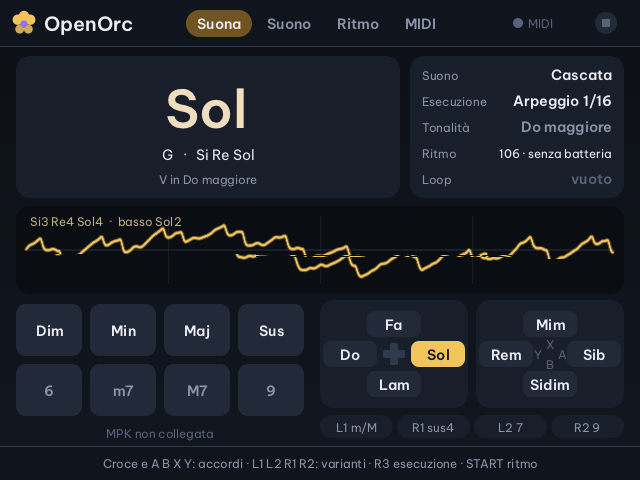
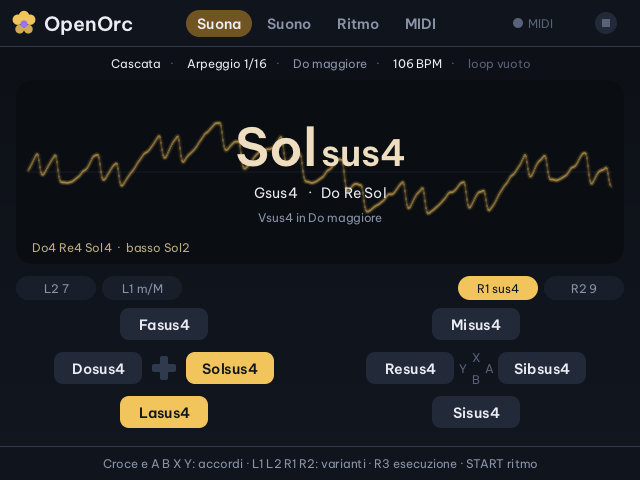
OpenOrc: the Play page redone around the chord
One subject instead of five panels of equal weight: the chord name large
in the middle with its notes and degree, the oscilloscope as a faint
backdrop behind it (the Orchid's "React" view), a single status line under
the header (sound, playing style, key, tempo, loop) instead of the table,
and the Flip's buttons drawn big in their real positions (d-pad left, ABXY
right, shoulders at the corners). The MPK pad grid only shows while the
keyboard is connected. Gold marks only what is playing; the other pages
are unchanged. New test screenshot without the MPK.

Claude-Session: https://claude.ai/code/session_01CRgcg7BaSS7Ne9tsAuYf2B

diff --git a/App/OpenOrc/src/orc_app.c b/App/OpenOrc/src/orc_app.c
@@ -1661,16 +1661,16 @@ static float scope_peak(OrcApp *a, int n)
 /* Oscilloscopio dell'uscita, agganciato al passaggio per lo zero in salita. Il colore dice chi suona:
    oro l'accordo dal vivo, viola la melodia, verde acqua il loop. In alto le note dell'accordo con
    l'ottava, cioe' il voicing scelto da K1. */
-static void draw_scope(OrcApp *a, Canvas *c, int x, int y, int w, int h)
+/* Oscilloscopio come fondale della fascia dell'accordo, agganciato al passaggio per lo zero in salita:
+   un tratto tenue dietro al nome, oro per l'accordo dal vivo, viola per la melodia, verde acqua per il
+   loop. Restituisce il picco, per scrivere «silenzio» quando non suona nulla. */
+static float draw_scope_band(OrcApp *a, Canvas *c, int x, int y, int w, int h)
 {
-    gfx_round_rect(c, x, y, w, h, 14, RGB(10, 13, 18), 1.0f);
-    for (int i = 1; i < 4; i++) gfx_rect(c, x + w * i / 4, y + 10, 1, h - 20, RGB(22, 27, 37));
-    gfx_line(c, x + 10, y + h / 2.0f, x + w - 10, y + h / 2.0f, 1.0f, C_LINE, 0.8f);
     OrcLoopInfo li;
     orc_loop_info(a->orc, &li);
     uint32_t color = a->chord_live ? C_GOLD : melody_on(a) ? C_VIOLET :
-                     (li.state == LOOP_PLAYING || li.state == LOOP_OVERDUB) ? C_TEAL : C_MUTED;
-    int n = w - 20;
+                     (li.state == LOOP_PLAYING || li.state == LOOP_OVERDUB) ? C_TEAL : C_DIM;
+    int n = w - 24;
     if (n > 600) n = 600;
     orc_scope(a->orc, a->scope, n * 2);
     int start = 0;
@@ -1678,18 +1678,131 @@ static void draw_scope(OrcApp *a, Canvas *c, int x, int y, int w, int h)
         if (a->scope[i - 1] <= 0.0f && a->scope[i] > 0.0f) { start = i; break; }
     float peak = 0.0f;
     for (int i = 0; i < n; i++) peak = fmaxf(peak, fabsf(a->scope[start + i]));
-    float gain = (h * 0.40f) / fmaxf(peak, 0.25f), px = 0, py = 0;
+    float mid = y + h * 0.5f, gain = (h * 0.36f) / fmaxf(peak, 0.25f), px = 0, py = 0;
+    gfx_line(c, x + 12, mid, x + w - 12, mid, 1.0f, C_LINE, 0.35f);
     for (int i = 0; i < n; i++) {
-        float xx = x + 10 + i, yy = y + h / 2.0f - a->scope[start + i] * gain;
+        float xx = x + 12 + i, yy = mid - a->scope[start + i] * gain;
         if (i) {
-            gfx_line(c, px, py, xx, yy, 4.0f, color, 0.18f);
-            gfx_line(c, px, py, xx, yy, 1.6f, color, 1.0f);
+            gfx_line(c, px, py, xx, yy, 5.0f, color, 0.06f);
+            gfx_line(c, px, py, xx, yy, 1.8f, color, 0.24f);
         }
         px = xx;
         py = yy;
     }
+    return peak;
+}
+
+/* La riga di stato sotto l'intestazione: suono, esecuzione, tonalita', tempo e loop in una sola riga. */
+static void draw_status_line(OrcApp *a, Canvas *c, int y)
+{
+    char vals[5][48];
+    uint32_t cols[5] = { C_TEXT, C_TEXT, C_TEXT, C_TEXT, C_TEXT };
+    snprintf(vals[0], sizeof(vals[0]), "%s", PRESETS[a->set.sound].name);
+    if (a->set.snd.perform == PERF_ARP) snprintf(vals[1], sizeof(vals[1]), "Arpeggio %s", ARP_SHORT[(int)(clamp01(a->set.snd.perform_amount) * 4.99f)]);
+    else snprintf(vals[1], sizeof(vals[1]), "%s", PERFORM_NAMES[a->set.snd.perform]);
+    key_name(vals[2], sizeof(vals[2]), a->set.key, a->set.minor);
+    cols[2] = a->set.keymode ? C_GOLD : C_MUTED;
+    if (a->set.beat_on) snprintf(vals[3], sizeof(vals[3]), "%d BPM · %s", (int)lrintf(a->set.bpm), BEAT_NAMES[a->set.beat_style]);
+    else snprintf(vals[3], sizeof(vals[3]), "%d BPM", (int)lrintf(a->set.bpm));
+    OrcLoopInfo li;
+    orc_loop_info(a->orc, &li);
+    char st[48];
+    loop_state_text(&li, st, sizeof(st));
+    snprintf(vals[4], sizeof(vals[4]), "loop %s", st);
+    cols[4] = li.state == LOOP_RECORDING ? C_RED : (li.state == LOOP_EMPTY ? C_DIM : C_TEXT);
+    int total = 0;
+    for (int i = 0; i < 5; i++) total += gfx_text_width(FONT_SMALL, vals[i]) + (i < 4 ? 26 : 0);
+    int x = 320 - total / 2;
+    for (int i = 0; i < 5; i++) {
+        x += gfx_text(c, FONT_SMALL, x, y, vals[i], cols[i]);
+        if (i < 4) { gfx_text(c, FONT_SMALL, x + 9, y, "·", C_DIM); x += 26; }
+    }
+}
+
+/* Un tasto della Flip con il nome dell'accordo che suonerebbe adesso (con i dorsali tenuti). */
+static void draw_flip_chip(OrcApp *a, Canvas *c, int slot, float cx, float cy, float w, float h, int font)
+{
+    int root, iv[CHORD_MAX_IV], deg, sp;
+    int n = build_chord(a, SRC_FLIP(slot), &root, iv, &deg, &sp);
+    char name[24];
+    chord_name(name, sizeof(name), root, chord_mask(iv, n), sp);
+    int held = stack_find(a, SRC_FLIP(slot)) >= 0;
+    gfx_round_rect(c, cx - w / 2, cy - h / 2, w, h, 9, held ? C_GOLD : C_PANEL_HI, 1.0f);
+    if (gfx_text_width(font, name) > w - 10) font = FONT_SMALL;
+    gfx_text_center(c, font, (int)cx, (int)(cy + (font == FONT_SMALL ? 5 : 6)), name, held ? C_BAR : C_TEXT);
+}
+
+/* Croce (d = 0) o A B X Y (d = 1), disposti come sulla console; al centro il simbolo del gruppo. */
+static void draw_flip_cluster(OrcApp *a, Canvas *c, int d, float cx, float cy, float w, float h, float dx, float dy, int font)
+{
+    static const int SLOT_AT[2][4] = { { 0, 1, 2, 3 }, { 4, 5, 7, 6 } };    /* sinistra, su, destra, giu' */
+    const float off[4][2] = { { -dx, 0 }, { 0, -dy }, { dx, 0 }, { 0, dy } };
+    if (d == 0) {
+        gfx_round_rect(c, cx - 4, cy - 12, 8, 24, 2, C_LINE, 1.0f);
+        gfx_round_rect(c, cx - 12, cy - 4, 24, 8, 2, C_LINE, 1.0f);
+    } else {
+        static const char *L[4] = { "Y", "X", "A", "B" };
+        static const float at[4][2] = { { -13, 5 }, { 0, -6 }, { 13, 5 }, { 0, 16 } };
+        for (int k = 0; k < 4; k++) gfx_text_center(c, FONT_SMALL, (int)(cx + at[k][0]), (int)(cy + at[k][1]), L[k], C_DIM);
+    }
+    for (int k = 0; k < 4; k++) draw_flip_chip(a, c, SLOT_AT[d][k], cx + off[k][0], cy + off[k][1], w, h, font);
+}
+
+static void draw_mod_chip(OrcApp *a, Canvas *c, int m, const char *label, float x, float y, float w)
+{
+    gfx_round_rect(c, x, y, w, 24, 12, a->mods[m] ? C_GOLD : C_PANEL, 1.0f);
+    gfx_text_center(c, FONT_SMALL, (int)(x + w / 2), (int)(y + 17), label, a->mods[m] ? C_BAR : C_MUTED);
+}
+
+/* Pagina Suona: una riga di stato, la fascia dell'accordo con l'oscilloscopio come fondale, e sotto i
+   comandi: i pad della MPK solo quando la tastiera c'e', i tasti della Flip disposti come sulla console. */
+static void draw_play(OrcApp *a, Canvas *c)
+{
+    char t[96];
+    draw_status_line(a, c, 68);
+
+    /* fascia dell'accordo */
+    const int bx = 16, by = 80, bw = 608, bh = 184;
+    gfx_round_rect(c, bx, by, bw, bh, 16, RGB(10, 13, 18), 1.0f);
+    float peak = draw_scope_band(a, c, bx, by, bw, bh);
+    if (a->name_root[0]) {
+        uint32_t col = a->chord_live ? gfx_mix(C_TEXT, C_GOLD, 0.35f + 0.65f * a->glow) : C_MUTED;
+        int wr = gfx_text_width(FONT_HUGE, a->name_root), ws = gfx_text_width(FONT_BIG, a->name_suffix);
+        int x = 320 - (wr + ws + 4) / 2;
+        gfx_text(c, FONT_HUGE, x, by + 86, a->name_root, col);
+        gfx_text(c, FONT_BIG, x + wr + 4, by + 86, a->name_suffix, col);
+        char notes[64] = "";
+        for (int i = 0; i < a->notes_n && i < 6; i++) {
+            int pc = a->notes[i] % 12, dup = 0;
+            for (int j = 0; j < i; j++) dup |= a->notes[j] % 12 == pc;
+            if (dup) continue;
+            size_t l = strlen(notes);
+            snprintf(notes + l, sizeof(notes) - l, "%s%s", l ? " " : "", note_it(pc, a->spelling));
+        }
+        snprintf(t, sizeof(t), "%s   ·   %s", a->symbol, notes);
+        gfx_text_center(c, FONT_BODY, 320, by + 118, t, a->chord_live ? C_TEXT : C_DIM);
+        if (a->numeral[0]) {
+            char k[32];
+            key_name(k, sizeof(k), a->set.key, a->set.minor);
+            snprintf(t, sizeof(t), "%s in %s", a->numeral, k);
+        } else {
+            char b[16];
+            note_label(b, sizeof(b), a->bass);
+            snprintf(t, sizeof(t), "basso %s", b);
+        }
+        gfx_text_center(c, FONT_SMALL, 320, by + 142, t, C_MUTED);
+    } else {
+        gfx_text_center(c, FONT_TITLE, 320, by + 86, "Suona un accordo", C_TEXT);
+        char k[32];
+        key_name(k, sizeof(k), a->set.key, a->set.minor);
+        if (a->midi_name[0]) snprintf(t, sizeof(t), "Tieni un pad (Maj, Min...) e premi un tasto, oppure croce e A B X Y: accordi di %s", k);
+        else snprintf(t, sizeof(t), "Croce e A B X Y suonano gli accordi di %s", k);
+        gfx_text_center(c, FONT_SMALL, 320, by + 118, t, C_MUTED);
+    }
+    /* le note con l'ottava: e' il voicing scelto da K1 */
     if (a->chord_live && a->notes_n) {
-        char t[96] = "", nn[16];
+        char nn[16];
+        t[0] = 0;
         for (int i = 0; i < a->notes_n && i < 7; i++) {
             note_label(nn, sizeof(nn), a->notes[i]);
             size_t l = strlen(t);
@@ -1700,120 +1813,36 @@ static void draw_scope(OrcApp *a, Canvas *c, int x, int y, int w, int h)
             size_t l = strlen(t);
             snprintf(t + l, sizeof(t) - l, "  ·  basso %s", nn);
         }
-        gfx_text(c, FONT_SMALL, x + 14, y + 20, t, gfx_mix(C_MUTED, C_GOLD, 0.5f));
+        gfx_text(c, FONT_SMALL, bx + 16, by + bh - 12, t, gfx_mix(C_MUTED, C_GOLD, 0.5f));
     }
-    if (peak < 0.002f) gfx_text_right(c, FONT_SMALL, x + w - 14, y + 20, "silenzio", C_DIM);
-}
+    if (peak < 0.002f) gfx_text_right(c, FONT_SMALL, bx + bw - 16, by + bh - 12, "silenzio", C_DIM);
 
-static void draw_play(OrcApp *a, Canvas *c)
-{
-    char t[96];
-    /* accordo */
-    gfx_round_rect(c, 16, 56, 384, 142, 14, C_PANEL, 1.0f);
-    if (a->name_root[0]) {
-        uint32_t col = a->chord_live ? gfx_mix(C_TEXT, C_GOLD, 0.35f + 0.65f * a->glow) : C_DIM;
-        int wr = gfx_text_width(FONT_HUGE, a->name_root), ws = gfx_text_width(FONT_BIG, a->name_suffix);
-        int x = 208 - (wr + ws + 4) / 2;
-        gfx_text(c, FONT_HUGE, x, 128, a->name_root, col);
-        gfx_text(c, FONT_BIG, x + wr + 4, 128, a->name_suffix, col);
-        char notes[64] = "";
-        for (int i = 0; i < a->notes_n && i < 6; i++) {
-            int pc = a->notes[i] % 12, dup = 0;
-            for (int j = 0; j < i; j++) dup |= a->notes[j] % 12 == pc;
-            if (dup) continue;
-            size_t l = strlen(notes);
-            snprintf(notes + l, sizeof(notes) - l, "%s%s", l ? " " : "", note_it(pc, a->spelling));
-        }
-        snprintf(t, sizeof(t), "%s   ·   %s", a->symbol, notes);
-        gfx_text_center(c, FONT_BODY, 208, 160, t, a->chord_live ? C_TEXT : C_DIM);
-        if (a->numeral[0]) {
-            char k[32];
-            key_name(k, sizeof(k), a->set.key, a->set.minor);
-            snprintf(t, sizeof(t), "%s in %s", a->numeral, k);
-        } else {
-            char b[16];
-            note_label(b, sizeof(b), a->bass);
-            snprintf(t, sizeof(t), "basso %s", b);
-        }
-        gfx_text_center(c, FONT_SMALL, 208, 184, t, C_MUTED);
-    } else {
-        gfx_text_center(c, FONT_TITLE, 208, 106, "Suona un accordo", C_TEXT);
-        gfx_text_center(c, FONT_SMALL, 208, 140, "MPK: tieni un pad (Maj, Min...) e premi un tasto", C_MUTED);
-        char k[32];
-        key_name(k, sizeof(k), a->set.key, a->set.minor);
-        snprintf(t, sizeof(t), "Flip: croce e A B X Y, accordi di %s", k);
-        gfx_text_center(c, FONT_SMALL, 208, 162, t, C_MUTED);
-    }
-
-    /* stato */
-    gfx_round_rect(c, 410, 56, 214, 142, 14, C_PANEL, 1.0f);
-    const char *labels[5] = { "Suono", "Esecuzione", "Tonalità", "Ritmo", "Loop" };
-    char vals[5][48];
-    snprintf(vals[0], sizeof(vals[0]), "%s", PRESETS[a->set.sound].name);
-    if (a->set.snd.perform == PERF_ARP) snprintf(vals[1], sizeof(vals[1]), "Arpeggio %s", ARP_SHORT[(int)(clamp01(a->set.snd.perform_amount) * 4.99f)]);
-    else snprintf(vals[1], sizeof(vals[1]), "%s", PERFORM_NAMES[a->set.snd.perform]);
-    key_name(vals[2], sizeof(vals[2]), a->set.key, a->set.minor);
-    snprintf(vals[3], sizeof(vals[3]), "%d · %s", (int)lrintf(a->set.bpm), a->set.beat_on ? BEAT_NAMES[a->set.beat_style] : "senza batteria");
-    OrcLoopInfo li;
-    orc_loop_info(a->orc, &li);
-    loop_state_text(&li, vals[4], sizeof(vals[4]));
-    for (int i = 0; i < 5; i++) {
-        int y = 80 + i * 26;
-        gfx_text(c, FONT_SMALL, 422, y, labels[i], C_MUTED);
-        uint32_t col = C_TEXT;
-        if (i == 2) col = a->set.keymode ? C_GOLD : C_MUTED;
-        if (i == 4) col = li.state == LOOP_RECORDING ? C_RED : (li.state == LOOP_EMPTY ? C_DIM : C_TEXT);
-        int font = gfx_text_width(FONT_BOLD, vals[i]) > 112 ? FONT_SMALL : FONT_BOLD;
-        gfx_text_right(c, font, 612, y, vals[i], col);
-    }
-
-    /* oscilloscopio */
-    draw_scope(a, c, 16, 206, 608, 88);
-
-    /* pad della MPK */
-    for (int i = 0; i < 8; i++) {
-        int col = i % 4, row = i / 4;
-        float x = 16 + col * 74, y = 304 + row * 60;
-        int held = a->pad_held[i];
-        uint32_t fill = held ? (row == 0 ? C_GOLD : C_VIOLET) : C_PANEL_HI;
-        gfx_round_rect(c, x, y, 66, 52, 10, fill, 1.0f);
-        gfx_text_center(c, FONT_BOLD, (int)(x + 33), (int)(y + 32), CHORD_PAD_NAMES[i], held ? C_BAR : (row == 0 ? C_TEXT : C_MUTED));
-    }
-    gfx_text_center(c, FONT_SMALL, 160, 438, a->midi_name[0] ? a->midi_name : "MPK non collegata", a->midi_name[0] ? C_MUTED : C_DIM);
-
-    /* croce e tasti della Flip */
-    static const float OFF[4][2] = { { -44, 0 }, { 0, -30 }, { 44, 0 }, { 0, 30 } };
-    static const int SLOT_AT[2][4] = { { 0, 1, 2, 3 }, { 4, 5, 7, 6 } };    /* sinistra, su, destra, giu' */
-    static const char *LETTERS[4] = { "Y", "X", "A", "B" };
-    static const float LETTER_AT[4][2] = { { -12, 5 }, { 0, -5 }, { 12, 5 }, { 0, 15 } };
-    for (int d = 0; d < 2; d++) {
-        float px = d ? 476 : 320, cx = px + 74, cy = 354;
-        gfx_round_rect(c, px, 300, 148, 108, 14, C_PANEL, 1.0f);
-        if (d == 0) {
-            gfx_round_rect(c, cx - 4, cy - 11, 8, 22, 2, C_LINE, 1.0f);
-            gfx_round_rect(c, cx - 11, cy - 4, 22, 8, 2, C_LINE, 1.0f);
-        } else {
-            for (int k = 0; k < 4; k++)
-                gfx_text_center(c, FONT_SMALL, (int)(cx + LETTER_AT[k][0]), (int)(cy + LETTER_AT[k][1]), LETTERS[k], C_DIM);
-        }
-        for (int k = 0; k < 4; k++) {
-            int slot = SLOT_AT[d][k];
-            int root, iv[CHORD_MAX_IV], deg, sp;
-            int n = build_chord(a, SRC_FLIP(slot), &root, iv, &deg, &sp);
-            char name[24];
-            chord_name(name, sizeof(name), root, chord_mask(iv, n), sp);
-            int held = stack_find(a, SRC_FLIP(slot)) >= 0;
-            float x = cx + OFF[k][0] - 27, y = cy + OFF[k][1] - 13;
-            gfx_round_rect(c, x, y, 54, 26, 8, held ? C_GOLD : C_PANEL_HI, 1.0f);
-            int font = gfx_text_width(FONT_BOLD, name) > 48 ? FONT_SMALL : FONT_BOLD;
-            gfx_text_center(c, font, (int)(cx + OFF[k][0]), (int)(cy + OFF[k][1] + 6), name, held ? C_BAR : C_TEXT);
-        }
-    }
+    /* comandi */
     static const char *MODS[MOD_COUNT] = { "L1 m/M", "R1 sus4", "L2 7", "R2 9" };
-    for (int i = 0; i < MOD_COUNT; i++) {
-        float x = 320 + i * 77;
-        gfx_round_rect(c, x, 415, 73, 23, 11.5f, a->mods[i] ? C_GOLD : C_PANEL, 1.0f);
-        gfx_text_center(c, FONT_SMALL, (int)(x + 36), 432, MODS[i], a->mods[i] ? C_BAR : C_MUTED);
+    if (a->midi_name[0]) {
+        /* pad della MPK a sinistra, tasti della Flip piu' piccoli a destra */
+        for (int i = 0; i < 8; i++) {
+            int col = i % 4, row = i / 4;
+            float x = 16 + col * 72, y = 290 + row * 58;
+            int held = a->pad_held[i];
+            gfx_round_rect(c, x, y, 64, 50, 10, held ? C_GOLD : C_PANEL_HI, 1.0f);
+            gfx_text_center(c, FONT_BOLD, (int)(x + 32), (int)(y + 31), CHORD_PAD_NAMES[i], held ? C_BAR : (row == 0 ? C_TEXT : C_MUTED));
+        }
+        gfx_text_center(c, FONT_SMALL, 158, 428, a->midi_name, C_MUTED);
+        draw_mod_chip(a, c, MOD_SEVENTH, MODS[2], 318, 276, 70);
+        draw_mod_chip(a, c, MOD_SWAP, MODS[0], 392, 276, 70);
+        draw_mod_chip(a, c, MOD_SUS, MODS[1], 480, 276, 70);
+        draw_mod_chip(a, c, MOD_NINTH, MODS[3], 554, 276, 70);
+        draw_flip_cluster(a, c, 0, 394, 372, 62, 26, 46, 33, FONT_SMALL);
+        draw_flip_cluster(a, c, 1, 548, 372, 62, 26, 46, 33, FONT_SMALL);
+    } else {
+        /* solo la Flip: i tasti grandi, nella posizione reale della console, i dorsali agli angoli */
+        draw_mod_chip(a, c, MOD_SEVENTH, MODS[2], 16, 276, 80);
+        draw_mod_chip(a, c, MOD_SWAP, MODS[0], 102, 276, 80);
+        draw_mod_chip(a, c, MOD_SUS, MODS[1], 458, 276, 80);
+        draw_mod_chip(a, c, MOD_NINTH, MODS[3], 544, 276, 80);
+        draw_flip_cluster(a, c, 0, 164, 368, 88, 32, 66, 44, FONT_BOLD);
+        draw_flip_cluster(a, c, 1, 476, 368, 88, 32, 66, 44, FONT_BOLD);
     }
 
     if (a->flash_t > 0.0f) {

diff --git a/App/OpenOrc/src/main_test.c b/App/OpenOrc/src/main_test.c
@@ -845,6 +845,15 @@ static void screenshots(OrcApp *a, const char *outdir)
     SHOT("orc-7-flip");
     btn(a, PAD_L2, 0);
     btn(a, PAD_DOWN, 0);
+    /* senza la MPK: i tasti della Flip grandi */
+    orcapp_midi_status(a, NULL);
+    run(a, 2.5f);
+    btn(a, PAD_RIGHT, 1);
+    btn(a, PAD_R1, 1);
+    run(a, 0.1f);
+    SHOT("orc-8-solo-flip");
+    btn(a, PAD_R1, 0);
+    btn(a, PAD_RIGHT, 0);
     free(px);
 }
 
